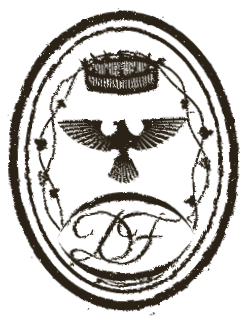
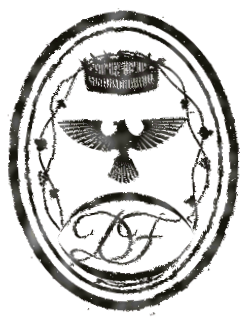
paper: ink lies solid and wears only at the edges
Body ink is pure black end to end: letters lean a hair, then the edge is
re-cut by two scales of grain noise, like an impression drying into the
sheet. Mono takes a typewriter strike that swells slightly and rounds.
The h1 joins the body filter so large Georgia never swells. Footer gets
its own near-black token. The sheet shadow stacks four radii for a steep
then long falloff. The seal takes the same press wear, grows to 8rem,
and its PNG and the social card are regenerated. InkScale re-touches the
filters once after first paint so the whole sheet rasters during load
idle instead of buffering at first scroll.

diff --git a/src/app/page.tsx b/src/app/page.tsx
@@ -144,72 +144,79 @@ export default function Home() {
       data-paper
       className="mx-auto max-w-[42rem] px-16 pt-6 pb-14 text-[1.0625rem] leading-relaxed"
     >
-      {/* Referenced by globals.css. Wobble the edge, blur, then rebuild two
-          layers from the soft alpha: a worn rim that noise chews at, and a
-          solid core merged on top, so stroke centers are always full ink
-          and all the wear lives at the edges, like a typewriter strike. */}
+      {/* Referenced by globals.css. Ink is always solid: stroke interiors
+          never lighten, and every alpha ends snapped to full or nothing.
+          The mono strike (#ink-bleed) swells slightly and rounds, like a
+          typewriter key pressing ink into fiber. Serif text (#ink-page)
+          keeps its weight; letters lean a hair on the baseline, then the
+          edge is re-cut by two scales of grain noise, the way a dried
+          impression takes on the texture of the sheet under it. */}
       <svg aria-hidden="true" width="0" height="0" className="absolute">
         <filter id="ink-bleed" x="-4%" y="-12%" width="108%" height="124%">
           <feTurbulence
             type="fractalNoise"
-            baseFrequency="0.22"
-            numOctaves="2"
-            seed="7"
+            baseFrequency="0.5"
+            numOctaves="1"
+            seed="8"
             result="warp"
           />
-          <feDisplacementMap in="SourceGraphic" in2="warp" scale="1.8" />
-          <feGaussianBlur stdDeviation="0.5" result="soft" />
-          <feComponentTransfer in="soft" result="inked">
-            <feFuncA type="linear" slope="3" intercept="-0.45" />
+          <feDisplacementMap in="SourceGraphic" in2="warp" scale="0.5" />
+          <feGaussianBlur stdDeviation="0.5" />
+          <feComponentTransfer>
+            <feFuncA type="linear" slope="26" intercept="-4.2" />
           </feComponentTransfer>
-          <feTurbulence
-            type="fractalNoise"
-            baseFrequency="0.09"
-            numOctaves="3"
-            seed="21"
-          />
-          <feComponentTransfer result="press">
-            <feFuncA type="linear" slope="0.5" intercept="0.62" />
-          </feComponentTransfer>
-          <feComposite in="inked" in2="press" operator="in" result="worn" />
-          <feComponentTransfer in="soft" result="core">
-            <feFuncA type="linear" slope="8" intercept="-5" />
-          </feComponentTransfer>
-          <feMerge>
-            <feMergeNode in="worn" />
-            <feMergeNode in="core" />
-          </feMerge>
         </filter>
         <filter id="ink-page" x="-4%" y="-12%" width="108%" height="124%">
           <feTurbulence
             type="fractalNoise"
-            baseFrequency="0.3"
+            baseFrequency="0.06"
             numOctaves="1"
-            seed="11"
-            result="warp"
+            seed="23"
+            result="wlow"
           />
-          <feDisplacementMap in="SourceGraphic" in2="warp" scale="1.6" />
-          <feGaussianBlur stdDeviation="0.45" result="soft" />
-          <feComponentTransfer in="soft" result="inked">
-            <feFuncA type="linear" slope="2.6" intercept="-0.38" />
-          </feComponentTransfer>
+          <feDisplacementMap
+            in="SourceGraphic"
+            in2="wlow"
+            scale="1.2"
+            result="lean"
+          />
+          <feGaussianBlur in="lean" stdDeviation="0.4" result="soft" />
           <feTurbulence
             type="fractalNoise"
-            baseFrequency="0.12"
-            numOctaves="3"
-            seed="29"
+            baseFrequency="0.13"
+            numOctaves="2"
+            seed="41"
+            result="grain"
           />
-          <feComponentTransfer result="press">
-            <feFuncA type="linear" slope="0.5" intercept="0.62" />
+          <feComposite
+            in="soft"
+            in2="grain"
+            operator="arithmetic"
+            k1="0"
+            k2="1"
+            k3="0.18"
+            k4="-0.09"
+            result="coarse"
+          />
+          <feTurbulence
+            type="fractalNoise"
+            baseFrequency="0.65"
+            numOctaves="2"
+            seed="42"
+            result="fiber"
+          />
+          <feComposite
+            in="coarse"
+            in2="fiber"
+            operator="arithmetic"
+            k1="0"
+            k2="1"
+            k3="0.3"
+            k4="-0.15"
+          />
+          <feComponentTransfer>
+            <feFuncA type="linear" slope="24" intercept="-12" />
           </feComponentTransfer>
-          <feComposite in="inked" in2="press" operator="in" result="worn" />
-          <feComponentTransfer in="soft" result="core">
-            <feFuncA type="linear" slope="8" intercept="-5" />
-          </feComponentTransfer>
-          <feMerge>
-            <feMergeNode in="worn" />
-            <feMergeNode in="core" />
-          </feMerge>
         </filter>
         {/* The same recipe for the JK mark, baked into its 1200px sprite at
             load, with features scaled to the letterform. */}
@@ -322,10 +329,10 @@ export default function Home() {
       </section>
 
       <div aria-hidden className="mt-14 text-center leading-none">
-        <CrestMark className="inline-block h-[5.33rem] text-seal" />
+        <CrestMark className="inline-block h-[8rem] text-seal" />
       </div>
 
-      <footer className="mt-12 border-t border-border pt-4 text-center font-mono text-xs text-text-muted">
+      <footer className="mt-12 border-t border-border pt-4 text-center font-mono text-xs text-text-soft">
         <p>Josh Kappler · President, Boffy LLC · 2026</p>
         <p className="mt-1">
           Founding Developer Experience Engineer, General Translation, Inc.

diff --git a/src/app/globals.css b/src/app/globals.css
@@ -4,10 +4,13 @@
 :root {
   color-scheme: light;
   --paper: #f2e8d5;
-  --ink: #16120c;
+  --ink: #000;
   /* Darkened from #7a6f5a: this shade holds 4.5:1 (WCAG AA) on --paper,
      which the labels and nav need at their small mono sizes. */
   --ink-muted: #6f654f;
+  /* Footer colophon: quieter than --ink but far darker than --ink-muted,
+     so the smallest type on the page stays legible through its wear. */
+  --ink-soft: #40382a;
   --line: #d8cbae;
   --seal: #8e2b23;
 }
@@ -17,6 +20,7 @@
   --color-bg: var(--paper);
   --color-text: var(--ink);
   --color-text-muted: var(--ink-muted);
+  --color-text-soft: var(--ink-soft);
   --color-border: var(--line);
   --color-accent: var(--ink);
   --color-seal: var(--seal);
@@ -34,15 +38,19 @@ body {
    and lifted to mean 251/255 so the multiply blend keeps the column within
    2% of --paper. The tile is mirrored both ways in the file so the repeat
    is seamless, and covers 21rem at 1350px so it stays sharp zoomed in. */
-/* No outline: a sheet's edge is the shadow it casts. A tight warm pass
-   reads as the paper's edge, a wide faint one as ambient lift. */
+/* No outline: a sheet's edge is the shadow it casts. Four passes at
+   stepped radii sum to a steep-then-long falloff, closer to how light
+   dies around real paper than any single gaussian; the small downward
+   offsets put the light faintly overhead. */
 main[data-paper] {
   position: relative;
   isolation: isolate;
   background: var(--paper);
   box-shadow:
-    0 0 0.4rem color-mix(in srgb, var(--ink) 16%, transparent),
-    0 0 2.5rem color-mix(in srgb, var(--ink) 9%, transparent);
+    0 0.05rem 0.3rem color-mix(in srgb, var(--ink) 13%, transparent),
+    0 0.25rem 1rem color-mix(in srgb, var(--ink) 9%, transparent),
+    0 0.5rem 2.2rem color-mix(in srgb, var(--ink) 8%, transparent),
+    0 0.9rem 5rem color-mix(in srgb, var(--ink) 7%, transparent);
 }
 
 /* The grain rides in one static overlay that multiplies over the whole
@@ -50,8 +58,8 @@ main[data-paper] {
    into fiber. One blend group total: giving each child its own
    mix-blend-mode made Firefox's compositor flicker, and the globe canvas
    sits above the overlay because repainting under it re-blends every
-   frame. The ink filters below keep stroke cores solid and lighten only
-   edges and patches, so type stays black instead of tinting to paper. */
+   frame. The ink filters below keep every stroke solid black and spend
+   all their character on the edges, so type never tints toward paper. */
 main[data-paper]::after {
   content: "";
   position: absolute;
@@ -62,10 +70,15 @@ main[data-paper]::after {
   background-size: 21rem 56rem;
   mix-blend-mode: multiply;
 }
-main[data-paper] h1,
+/* Mono takes the typewriter strike; the h1 rides with body text so the
+   large Georgia never swells the way the small strike does. */
 main[data-paper] .font-mono {
   filter: url(#ink-bleed);
 }
+/* The filter stays per paragraph and per li: each application allocates
+   intermediate buffers at element size, and one filtered block spanning a
+   whole list is a big enough allocation to crash a phone compositor. */
+main[data-paper] h1,
 main[data-paper] :is(p, li, button):not(.font-mono):not(.font-mono *),
 main[data-paper] > div:not(:has(svg)) {
   filter: url(#ink-page);
@@ -114,6 +127,7 @@ a {
     --paper: #fff;
     --ink: #000;
     --ink-muted: #555;
+    --ink-soft: #333;
     --line: #bbb;
     --seal: #000;
   }

diff --git a/src/components/crest-mark.tsx b/src/components/crest-mark.tsx
@@ -79,7 +79,21 @@ export function CrestMark({ className }: { className?: string }) {
             values="0 0 0 0 0  0 0 0 0 0  0 0 0 0 0  0 0 0 25 -19.2"
             result="holes"
           />
-          <feComposite in="wob2" in2="holes" operator="out" />
+          <feComposite in="wob2" in2="holes" operator="out" result="aged" />
+          {/* Uneven pressure: the same press bite the page ink carries,
+              at this die's scale, thinning patches where the wax took
+              the stamp lightly. */}
+          <feTurbulence
+            type="fractalNoise"
+            baseFrequency="0.1"
+            numOctaves="2"
+            seed="13"
+            result="pressN"
+          />
+          <feComponentTransfer in="pressN" result="pressMask">
+            <feFuncA type="linear" slope="1.15" intercept="-0.48" />
+          </feComponentTransfer>
+          <feComposite in="aged" in2="pressMask" operator="out" />
         </filter>
       </defs>
       <g filter="url(#crest-age)" transform="rotate(-1.6 50 65)">

diff --git a/src/components/ink-scale.tsx b/src/components/ink-scale.tsx
@@ -39,7 +39,14 @@ export function InkScale() {
     };
     apply();
     window.addEventListener("resize", apply);
-    return () => window.removeEventListener("resize", apply);
+    // Re-touch the filters once after first paint: the invalidation makes
+    // the browser rasterize the whole sheet's ink during load idle time,
+    // instead of buffering visibly at the first scroll into the lower half.
+    const nudge = window.setTimeout(apply, 250);
+    return () => {
+      window.clearTimeout(nudge);
+      window.removeEventListener("resize", apply);
+    };
   }, []);
   return null;
 }
